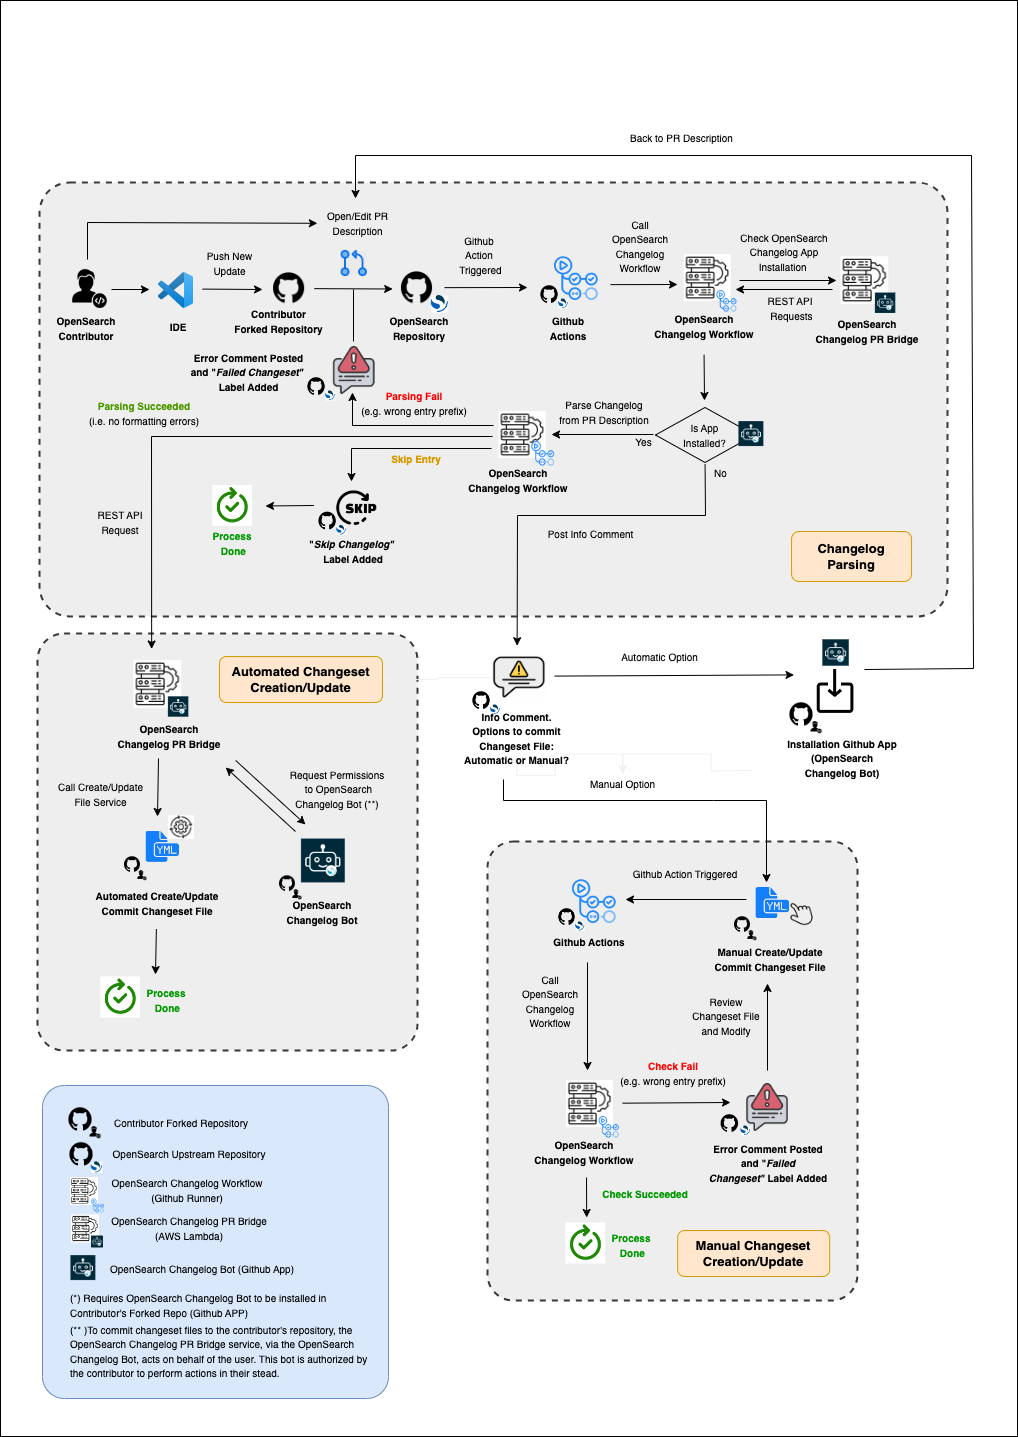
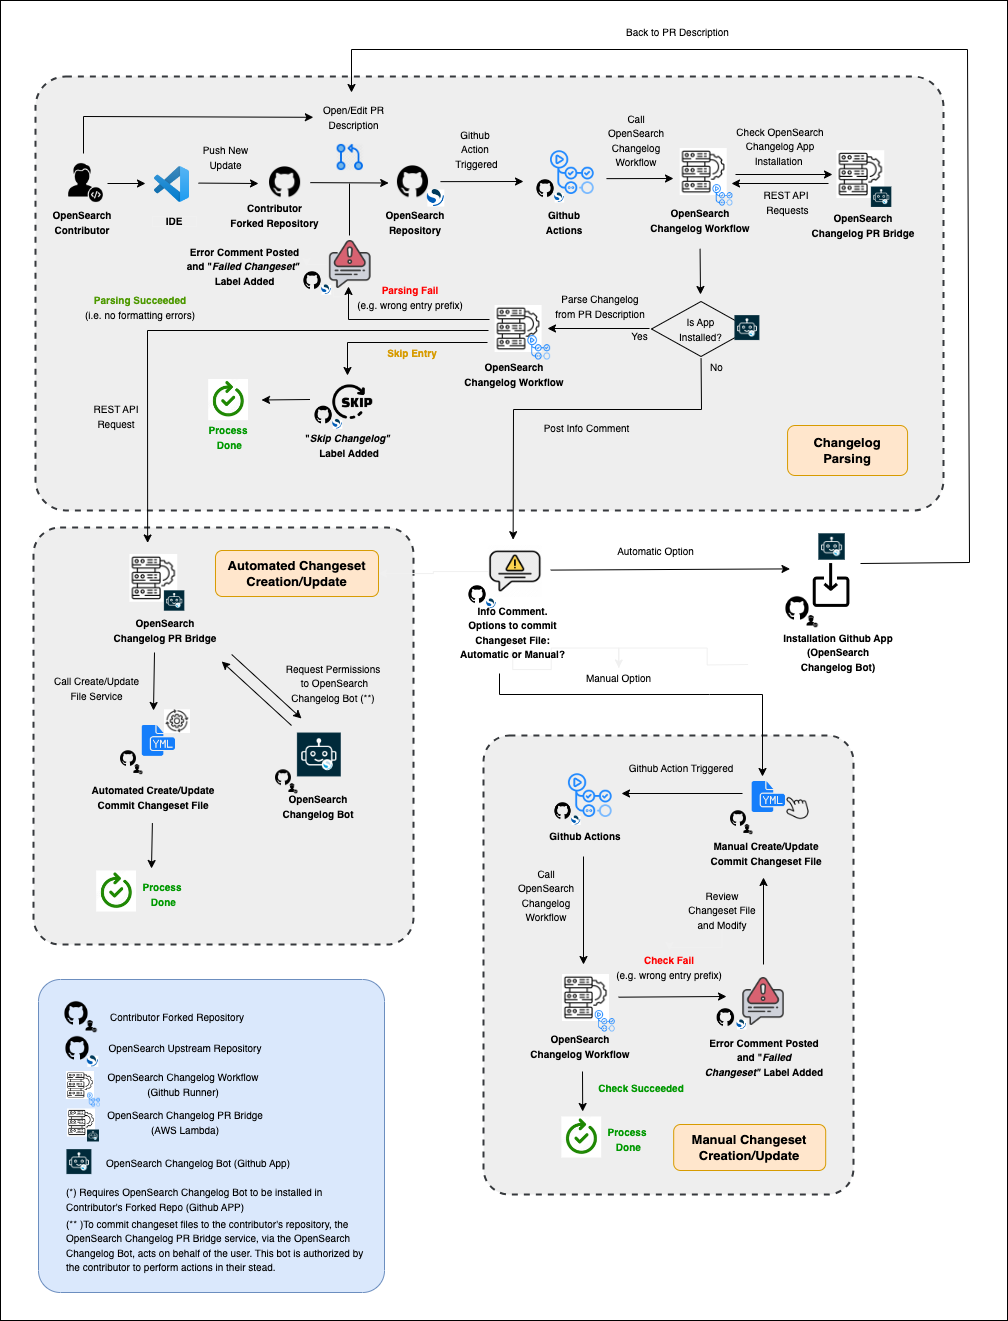
updating changelog diagram

diff --git a/README.md b/README.md
@@ -69,7 +69,7 @@ Automating the generation of changelog and release notes streamlines both of the
 
 ## Process Overview
 
-The **Changelog and Release Notes Process** acts in two separate and independent compartments: (1) the first one for the **Changelog Process**, (2) and the second one for the **Release Notes Process**. Details of both of them are introduced in the next subsections.
+The **Changelog and Release Notes Process** acts in two separate and independent compartments: (1) the first, the **Changelog Process**, (2) and the second, the **Release Notes Process**. Details of both of them are introduced in the next subsections.
 
 ### Changelog Process
 
@@ -84,7 +84,7 @@ In the figure below, a diagram flow from the entire **Changelog Process** is dep
 
 3. Using a GitHub Actions workflow to extract entries from the "Changelog" section of each PR description, create or update a changeset file in `.yml` format, and add this file to the new `changelogs/fragments` directory. The generated changeset file is automatically included as part of the changes to be merged when the PR is approved.
 
-   
+
 ### Release Notes Process
 
 [COMPLETE RILEY AND WILL]
@@ -376,7 +376,7 @@ This command executes a script that performs the following actions:
 - Map the changelog entries in these files to their appropriate changelog section headings
 - Generate the changelog section for the new release and add it to the top of the changelog
 - Create a release notes document to accompany the new release
-- Delete the changeset files from the `changelogs/fragments` directory
+- Del**ete the ch**angeset files from the `changelogs/fragments` directory
 
 <p align="right">(<a href="#back-to-top">back to top</a>)</p>
 
